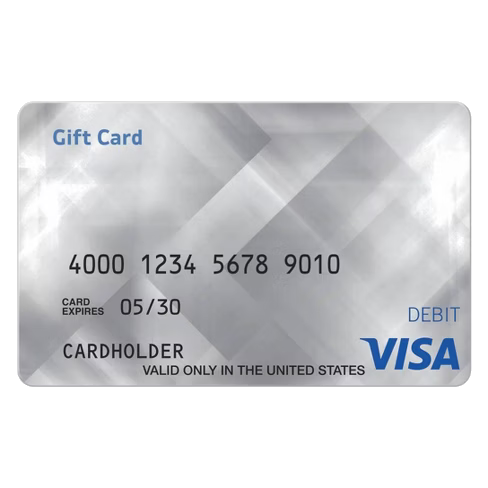
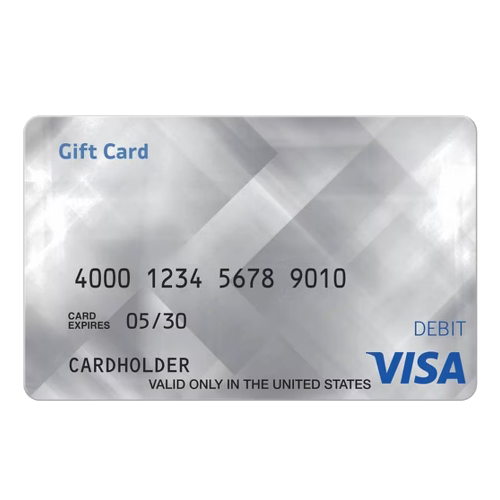
modded some of the photos

diff --git a/main/index.html b/main/index.html
@@ -69,11 +69,11 @@
         </div>
 
         <div class="hero__content">
+            <h3><i>The University of Missouri and the Mizzou Computing Association present</i></h3>
             <h1>TigerHacks<br>2024</h1>
             <p><i>November 1st-3rd, 2024</i></p>
             <p><i>Lafferre Hall, Columbia, Missouri</i></p>
-            <p>Our website is currently under construction </p>
-            <p>and we will soon add more information!</p>
+         
 
             <a href="https://tigerhack.typeform.com/tigerhacks" class="button-link">Sign Up Today!</a>
         </div>
@@ -372,11 +372,34 @@
        
 
     </section>
+    <section id="prizes">
+        <h1 style="text-align: center; padding-bottom: 10px;"  class="white_color" >Prizes</h2>
+            <div class="center">
+                <div class="row">
+                    <div class="col"> 
+                        <img class="img_sponsor_1"   src="/assets/prizes/prepaid_card_transparent.png" alt="A picture of a pre-paid card, representing $500">
+                        <p  class="white_color">$500 Prepaid Visa Debit Card</p>
+                        <p   class="white_color">1st Place Developer</p>
 
-    <section id="committee" class="">
+                    </div>
+                    <div class="col"> 
+                        <img class="img_sponsor_1"   src="/assets/prizes/apple_watch_transparent.png" alt="A picture of a pre-paid card, representing $500">
+                        <p  style="padding-bottom: 10px;" class="white_color">Apple Watch Series 10</p>
+                    </div>
+                    <div class="col"> 
+                        <img class="img_sponsor_1"   src="/assets/prizes/tv_transparent.png" alt="A picture of a pre-paid card, representing $500">
+                        <p  style="padding-bottom: 10px;" class="white_color">TCL 55-Inch Q65 4K TV </p>
+                    </div>
+        
+                </div>
+            </div>
+        
+    </section>
+
+    <!-- <section id="committee" class="">
         <h2>Meet Our Committee</h2>
         <img src="" alt="">
-    </section>
+    </section> -->
 
 
 
